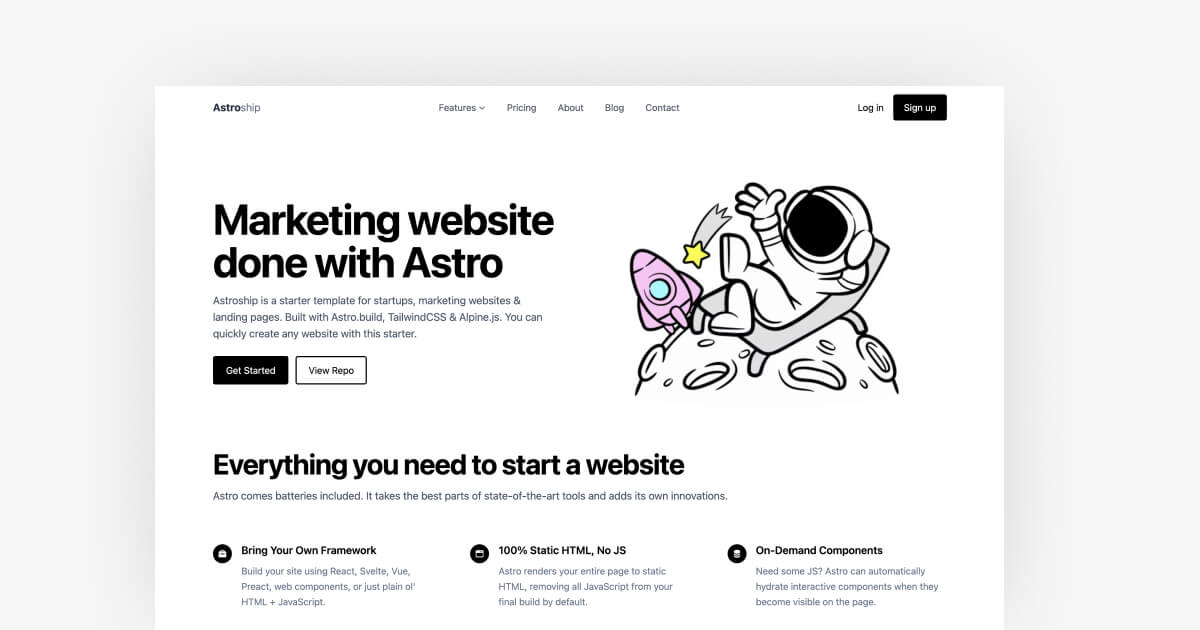
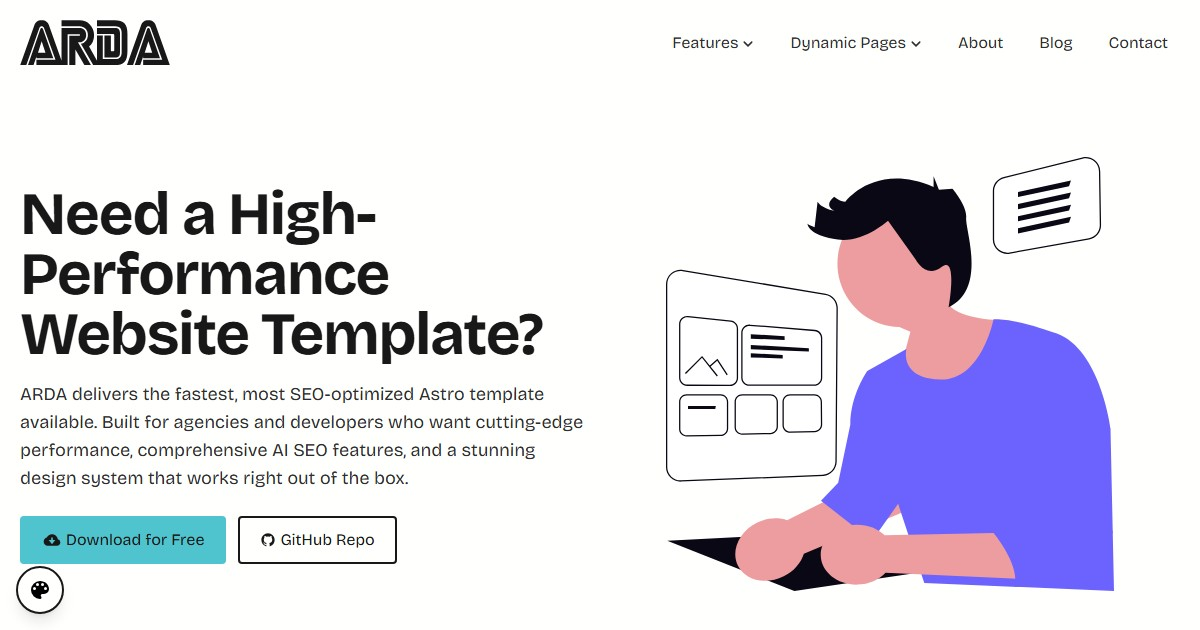
meta-tools: screenshot tool working, llm scraper started

diff --git a/README.md b/README.md
@@ -114,6 +114,81 @@ pnpm astro --help
 pnpm astro add tailwind
 ```
 
+## 🛠 Project Tools
+
+This template includes custom command-line tools to help with development and AI-SEO optimization.
+
+### Dist Scraper Tool
+
+Automatically generates an updated `llms.txt` file by scraping content from your built site (`/dist/` folder). This ensures your AI-SEO file always reflects the actual content of your website.
+
+#### Quick Start
+
+```bash
+# 1. Set up the tool (one-time setup)
+pnpm tools:setup
+
+# 2. Build your site first
+pnpm build
+
+# 3. Generate updated llms.txt
+pnpm tools:scrape
+
+# 4. Rebuild to include updated llms.txt
+pnpm build
+```
+
+#### Available Commands
+
+```bash
+# Preview what would be generated (without writing file)
+pnpm tools:scrape:preview
+
+# Validate that dist folder is ready for scraping
+pnpm tools:validate
+
+# Complete workflow: Build → Generate llms.txt → Rebuild
+pnpm build:with-llms
+```
+
+#### How It Works
+
+1. **Scans** your `/dist/` folder for HTML files
+2. **Extracts** meaningful content while filtering out navigation, footers, and scripts
+3. **Converts** HTML to clean markdown format
+4. **Organizes** content by category (core pages, blog posts, case studies, etc.)
+5. **Generates** a properly formatted `llms.txt` file following industry standards
+
+#### Features
+
+- **Smart Content Extraction**: Automatically identifies and extracts semantic content
+- **Content Categorization**: Organizes pages into logical sections
+- **Link Preservation**: Maintains internal links with proper URL formatting
+- **Preview Mode**: See what will be generated before writing files
+- **Verbose Output**: Detailed progress information for debugging
+
+#### Integration with AI-SEO Features
+
+The dist scraper is part of the comprehensive AI-SEO implementation that includes:
+- **llms.txt**: Generated from actual site content (this tool)
+- **ai.txt**: AI crawler management directives
+- **robots.txt**: Enhanced with AI-specific crawler rules
+- **Schema.org markup**: JSON-LD structured data throughout the site
+
+#### Workflow Recommendation
+
+1. **Develop**: Make content changes in your Astro source files
+2. **Build**: `pnpm build` to generate the static site
+3. **Scrape**: `pnpm tools:scrape` to update llms.txt with latest content
+4. **Rebuild**: `pnpm build` again to include the updated llms.txt
+5. **Deploy**: Your site now has current AI-optimized content
+
+Or use the convenient combined command: `pnpm build:with-llms`
+
+> **Important**: Always run `pnpm build` after generating a new llms.txt to ensure the updated file is included in your deployment.
+
+For detailed documentation, see [project_tools/dist-scraper/README.md](project_tools/dist-scraper/README.md).
+
 ## 📁 Project Architecture
 
 ```
